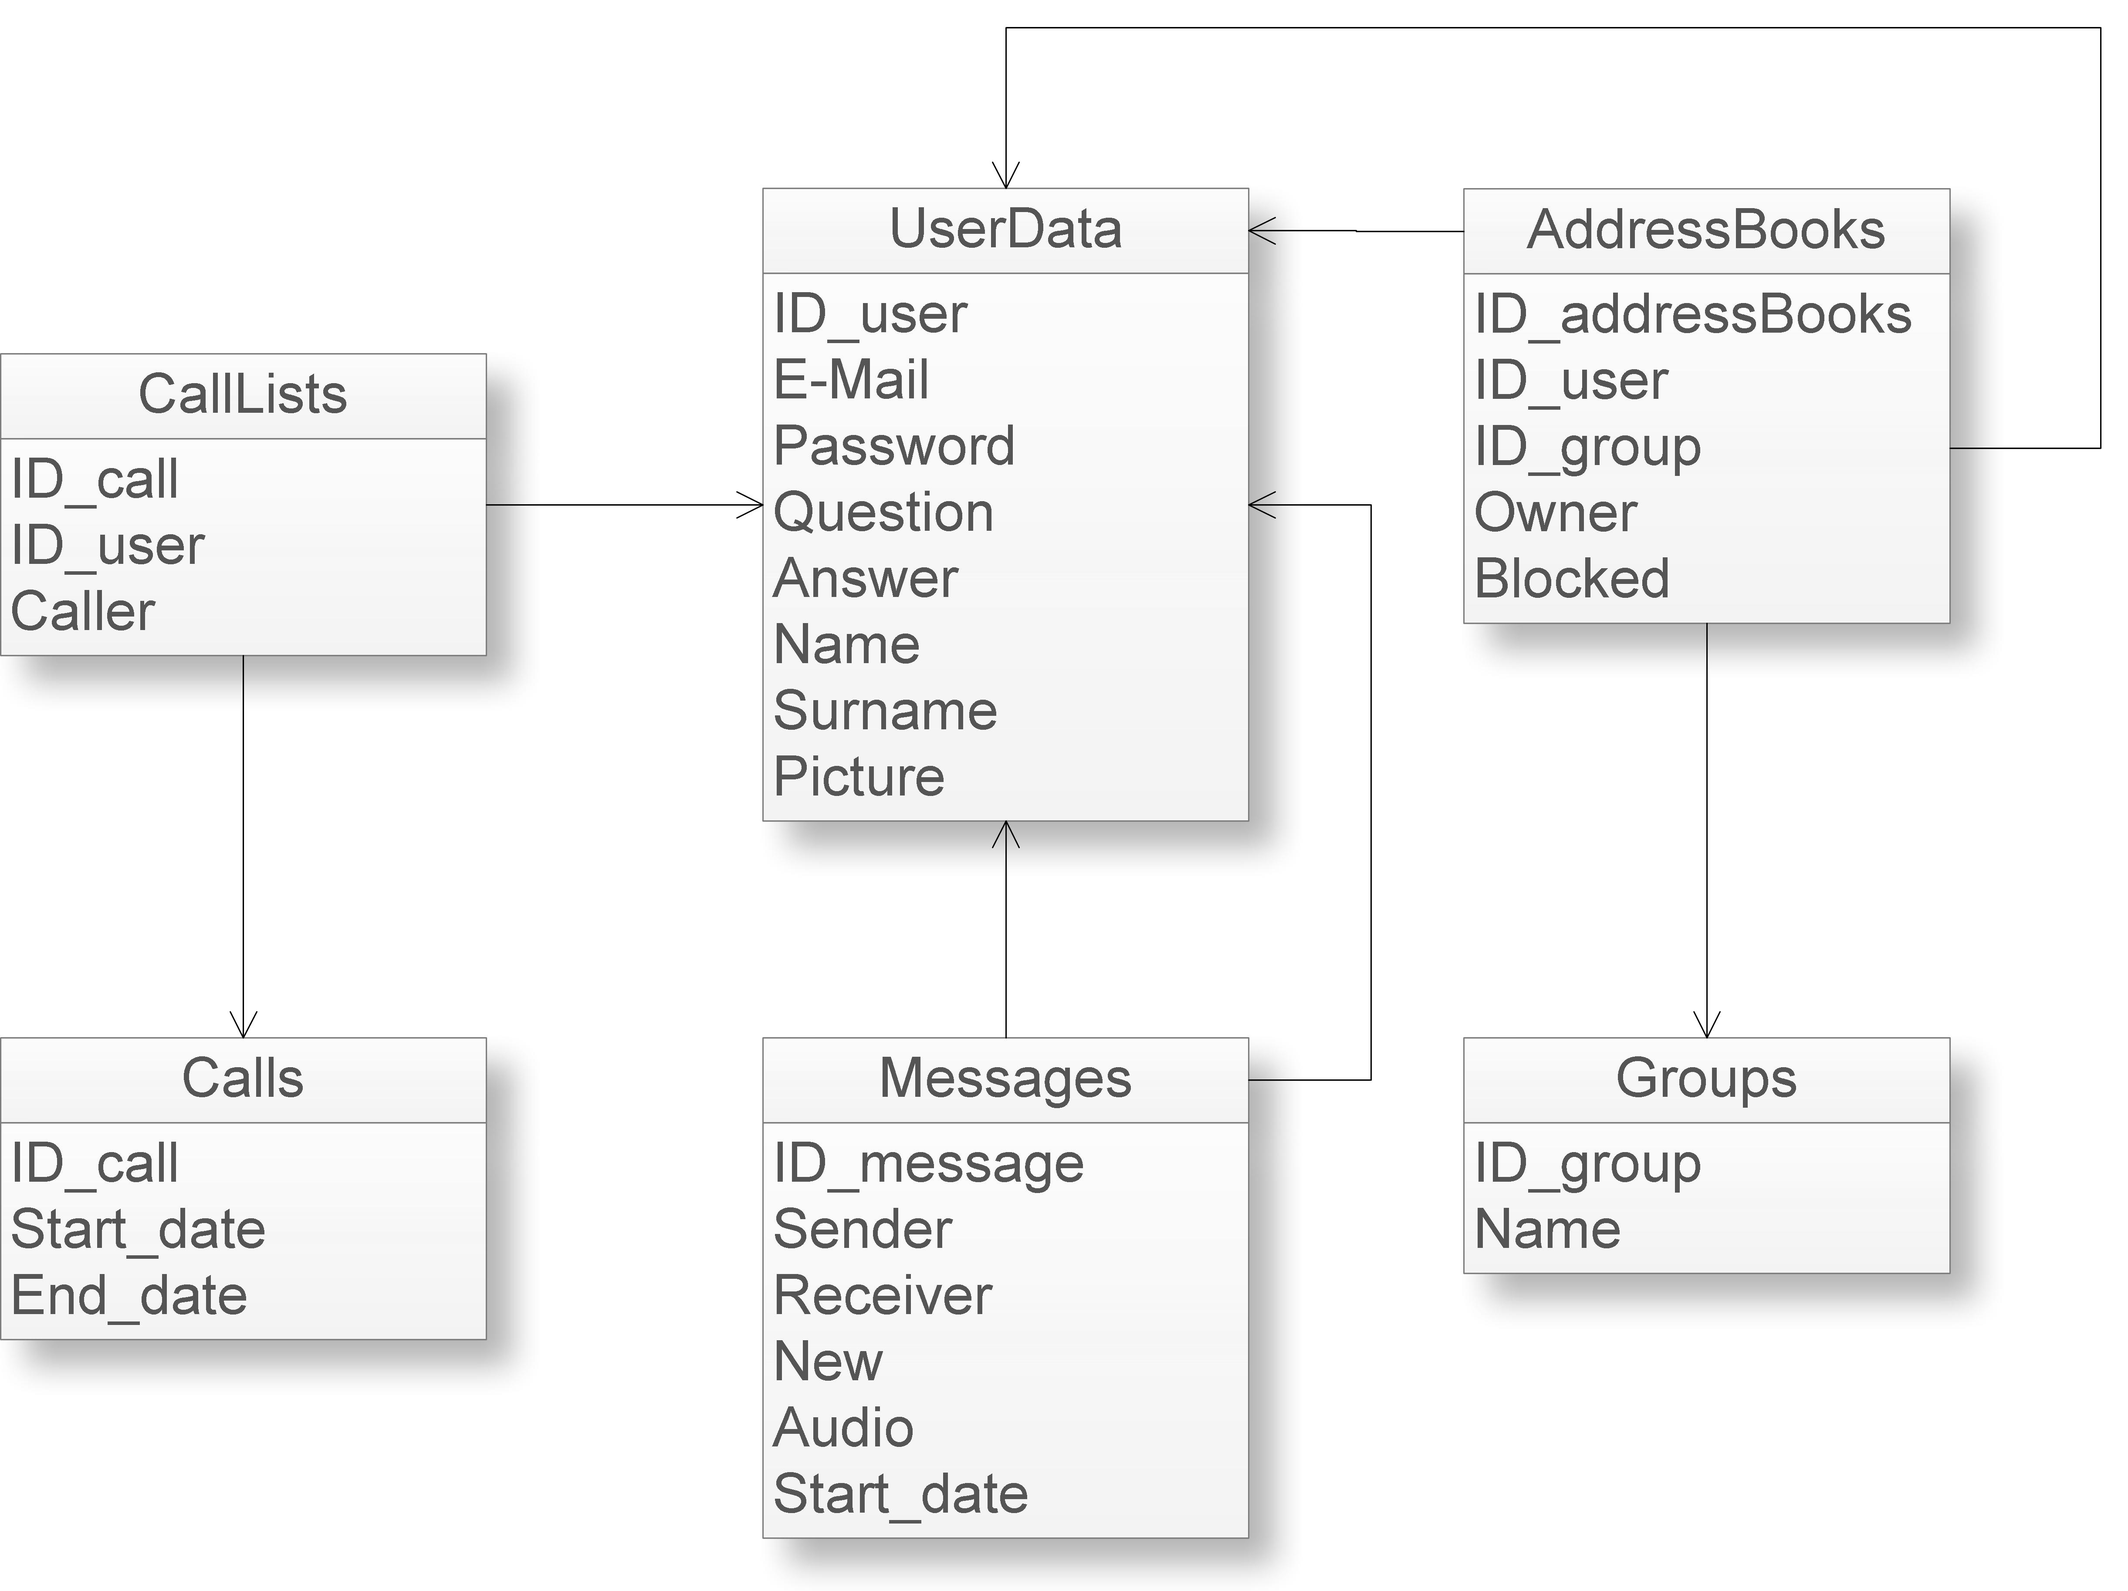
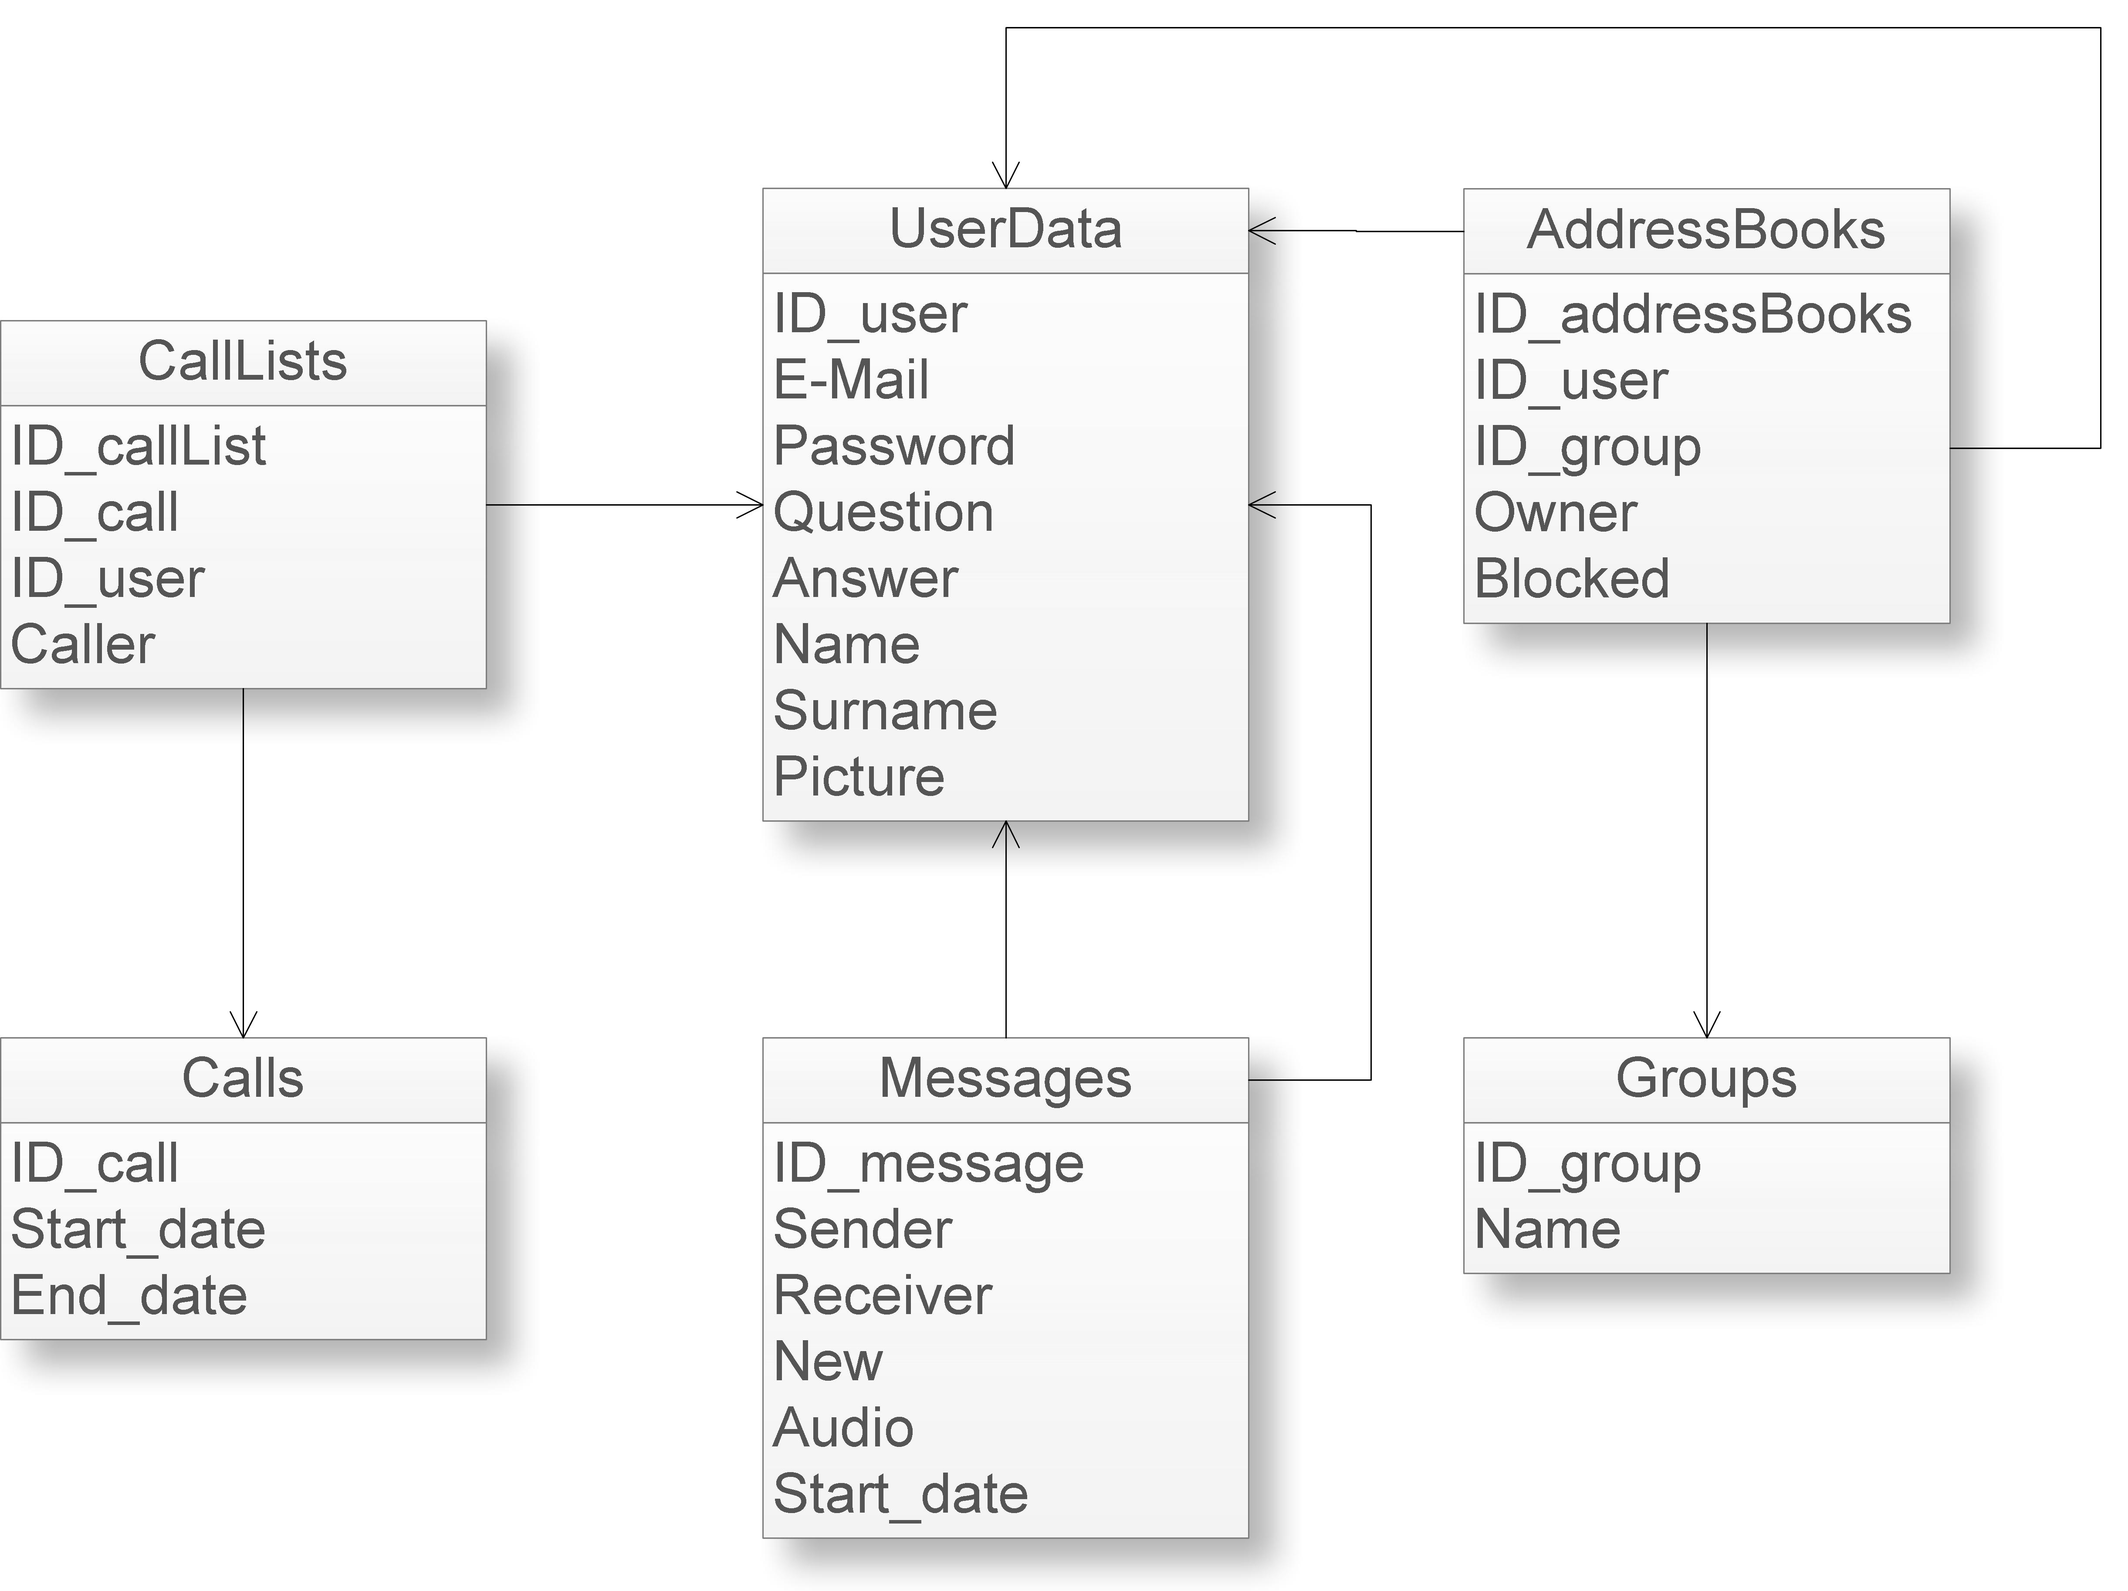
Correzione progettazione logica DB

Changed region(s): [[0.0, 0.2184, 0.2489, 0.468], [0.2178, 0.2184, 0.2489, 0.2496]]

diff --git a/Documents/specifica_tecnica/specifica_tecnica.tex b/Documents/specifica_tecnica/specifica_tecnica.tex
@@ -408,13 +408,13 @@ Con la progettazione logica intendiamo costruire la struttura definitiva del dat
 \subsubsection{Rappresentazione delle associazioni}
 
 \begin{description}
-	\item{\scshape\bfseries UserData - Calls}: tale associazione si è risolta attraverso l'introduzione dell'entità CallLists. Tale entità contiene l'attributo User come chiave esterna verso l'entità UserData e l'attributo Call\_ID come chiave esterna verso l'entità Calls. È dotata inoltre dell'attributo Caller che identifica colui che ha per primo avviato la chiamata; per ogni gruppo di ennuple aventi lo stesso Call\_ID si avrà soltanto una ennupla contrassegnata con il campo Caller a vero.
+	\item{\scshape\bfseries UserData - Calls}: tale associazione si è risolta attraverso l'introduzione dell'entità CallLists. Tale entità contiene l'attributo ID\_user come chiave esterna verso l'entità UserData e l'attributo ID\_call come chiave esterna verso l'entità Calls. È dotata inoltre dell'attributo ``Caller'' che identifica colui che ha per primo avviato la chiamata; per ogni gruppo di ennuple aventi lo stesso ID\_call si avrà soltanto una ennupla contrassegnata con il campo Caller a vero.
 	
-	\item{\scshape\bfseries UserData - AddressBook}: tali associazioni si sono risolte inserendo nell'entità AddressBook due chiavi esterne verso UserData. Per questo motivo nella progettazione concettuale era stato scelto come tipo di dato 'UserData'.
+	\item{\scshape\bfseries UserData - AddressBooks}: tali associazioni si sono risolte inserendo nell'entità AddressBook due chiavi esterne verso UserData.
 	
-	\item{\scshape\bfseries AddressBook - Groups}: tale associazione si è risolta inserendo una chiave esterna verso Groups all'interno dell'entità AddressBook.
+	\item{\scshape\bfseries AddressBooks - Groups}: tale associazione si è risolta inserendo una chiave esterna verso Groups all'interno dell'entità AddressBooks.
 	
-	\item{\scshape\bfseries UserData - Messages}: tale associazione si è risolta inserendo due chiavi esterne verso UserData, all'interno dell'entità Messages. Come per l'associazione UserData - AddressBook si era scelto come tipo di dato 'UserData' nella progettazione concettuale.
+	\item{\scshape\bfseries UserData - Messages}: tale associazione si è risolta inserendo due chiavi esterne verso UserData, all'interno dell'entità Messages. 
 \end{description}
 
 \subsubsection{Chiavi primarie sintetiche}
@@ -422,10 +422,11 @@ I progettisti hanno optato per la definizione di chiavi primarie sintetiche, ovv
 
 Tale scelta è dettata dall'utilizzo del framework Hibernate che non permette la modifica del valore della chiavi primarie associate ad una istanza di un oggetto di \inglese{business}. Le chiavi saranno quindi composte da un campo a valore intero, da intendersi come un contatore che identifica univocamente i record.
 
-La chiave primaria in Calls (e chiave esterna in CallLists) è di tipo \texttt{BIGINT} senza segno, il team è consapevole che questo impone un limite di $1,8 \times10^{19}$ al numero di chiamate che possono essere memorizzate contemporaneamente. Una soluzione da adottarsi in futuro per evitare la perdita di dati potrebbe consistere nello spostare da database a disco parte di queste informazioni.
+La chiave sintetiche adottate sono del tipo \texttt{BIGINT} senza segno, il team è consapevole che questo impone un limite di $1,8 \times10^{19}$ al numero di voci che possono essere memorizzate contemporaneamente in ogni entità. Una soluzione da adottarsi in futuro per evitare la perdita di dati potrebbe consistere nello spostare da database a disco parte di queste informazioni.
 L'introduzione di questo tipo di chiave è dovuta anche ad una semplice gestione, tramite Hibernate, di tale oggetto.
 
 Nel caso particolare dei messaggi, inoltre, il campo ID\_message, oltre a rappresentare un identificatore univoco, coincide anche con il nome del file sul server in cui è memorizzato il messaggio stesso, all'interno di una \inglese{directory} predefinita e nota ai componenti del sistema.
+\newpage
 
 \subsubsection{Lista delle classi}
 
@@ -441,7 +442,7 @@ Nome attributo & Tipo & Opzionale & Vincoli\\
 \midrule
 ID\_user & Bigint unsigned & NO & PrimaryKey\\
 E-Mail & Varchar(100) & NO & Unique\\
-Password & Varchar(100) & NO &\\
+Password & Char(41) & NO &\\
 Question & Varchar(100) & NO &\\
 Answer & Varchar(100) & NO &\\
 Name & Varchar(100) & SÌ &\\
@@ -460,7 +461,7 @@ Calls
 Nome attributo & Tipo & Opzionale & Vincoli\\
 \midrule
 ID\_call & Bigint unsigned & NO & PrimaryKey\\
-Start\_date & Datetime & NO & \\
+Start\_date & Datetime & NO & default(current\_timestamp)\\
 End\_date & Datetime & SÌ &\\
 \bottomrule
 \end{tabular}
@@ -474,8 +475,9 @@ CallLists
 \toprule
 Nome attributo & Tipo & Opzionale & Vincoli\\
 \midrule
-ID\_call & Bigint unsigned & NO & PrimaryKey e ForeignKey verso Calls\\
-ID\_user & Bigint unsigned & NO & PrimaryKey e ForeignKey verso UserData \\
+ID\_callList & Bigint unsigned & NO PrimaryKey\\
+ID\_call & Bigint unsigned & NO & ForeignKey verso Calls\\
+ID\_user & Bigint unsigned & NO & ForeignKey verso UserData \\
 Caller & Boolean & NO &\\
 \bottomrule
 \end{tabular}
@@ -566,33 +568,32 @@ Infine, si fa notare che i nomi di tutte le classi riportate nella presente sezi
 \item{\scshape\bfseries Descrizione:}\\
 È il componente che si occupa di rappresentare la struttura del database relazionale su cui poggia l'applicativo. Tramite questo componente, il sistema potrà quindi effettuare operazione di lettura e scrittura di entità all'interno del database.
 
-Nucleo logico di tale componente è la classe \texttt{org.softwaresynthesis.mytalk.server.dao}, il cui compito è creare una \inglese{factory} per le sessioni verso il database. Si voglia osservare che tali sessioni si basano sul file di configurazione di Hibernate, tra le cui informazione compare anche la tipologia di di DBMS usata.
-
-Le altre classi che fanno parte  di questo componente si dividono in due categorie:
+Le classi che fanno parte  di questo componente possono essere suddivise in:
 \begin{itemize}
-	\item le classi \inglese{data access object} (DAO). Ossia quelle classi aventi il compito di inoltrare richieste per la modifica e la lettura dei dati (Create Read Update Delete) nelle corrispettive entità del database. Tali classi sono:
-	\begin{itemize}
-		\item[-] \texttt{dao.CallDAO}
-		\item[-] \texttt{dao.GroupDAO}
-		\item[-] \texttt{dao.MessageDAO}
-		\item[-] \texttt{dao.UserDataDAO}
-		\item[-] \texttt{dao.AddressBookDAO}
-	\end{itemize}
-	
-	\item le classi che mappano le entità rappresentate nel database e sono dotate di variabili di istanza che corrispondono ai campi dei \inglese{record}. Le operazioni disponibili su questo genere di oggetti comprendono i metodi get/set associati ai campi delle tabelle del database e sono rese disponibili dalle interfacce (una per ogni entità) implementate dalle classi (per chiarezza si informa che tali classi corrispondono a quelle che nella logica di programmazione in Hibernate prendono il nome di \inglese{Trasfer Object}, TO\@).
-	\begin{itemize}
-		\item[-] \texttt{call.ICall}
-	  \item[-] \texttt{call.Call}
-	  \item[-] \texttt{abook.IGroup}
-	  \item[-] \texttt{abook.Group}
-	  \item[-] \texttt{message.IMessage}
-	  \item[-] \texttt{message.Message}
-	  \item[-] \texttt{abook.IUserData}
-	  \item[-] \texttt{abook.UserData}
-	\end{itemize}
+  \item una classe di utilità per la creazione delle sessioni di connessione al DBMS su cui saranno realizzate le transazioni;
+  \item le classi \inglese{data access object} (DAO) concrete per il DBMS prescelto (MySQL) e le relative interfacce;
+  \item le classi \inglese{factory} (concrete e astratte) utilizzate per ottenere le istanze delle classi DAO necessarie a supportare la persistenza dei dati del database.
 \end{itemize}
 
-Si voglia osservare che le classi rappresentati i TO\@ vengono ad essere collocate in package diversi da \texttt{.server.dao}. Questo perchè il team ha ritenuto sensato inserirle in contesti maggiormente specializzati sul gestire quella specifica sezione del database. Ecco quindi (per esempio) che la classe rappresentante i messaggi in segreteria verrà ad essere collocata in \texttt{server.message.Message}.
+Inoltre, sono utilizzate le classi \inglese{transfer object} (TO) esterne e le relative interfacce che modellano le entità di \inglese{business}, in particolare:
+\begin{itemize}[noitemsep,nolistsep]
+  \item[-] \texttt{call.ICall}
+	\item[-] \texttt{call.Call}
+	\item[-] \texttt{abook.IGroup}
+	\item[-] \texttt{abook.Group}
+	\item[-] \texttt{message.IMessage}
+	\item[-] \texttt{message.Message}
+	\item[-] \texttt{abook.IUserData}
+	\item[-] \texttt{abook.UserData}
+\end{itemize}
+
+In linea generale le classi TO mappano le entità rappresentate nel database e sono dotate di variabili di istanza che corrispondono ai campi dei \inglese{record}. Le operazioni disponibili su questo genere di oggetti comprendono i metodi get/set associati ai campi delle tabelle del database e sono rese disponibili dalle interfacce (una per ogni entità) implementate dalle classi TO\@.
+
+Ad ognuna delle entità è associata inoltre un'interfaccia DAO il cui contratto stabilisce la responsabilità di gestire la transizione di stato degli oggetti TO da transienti a persistenti, l'aggiornamento delle informazioni sul database, la ricerca di un elemento e la rimozione di un oggetto dallo stato persistente, realizzando le operazioni di \inglese{insert}, \inglese{update}, \inglese{find}, \inglese{select} e \inglese{delete} corrispondenti.
+
+Poiché le implementazioni delle interfacce DAO contengono istruzioni dipendenti dal DBMS utilizzato, è stato realizzato un set di classi specifiche per MySQL che si appoggiano al \inglese{framework} Hibernate per la gestione della persistenza dei dati. Inoltre, è stata introdotta una classe \inglese{factory} per MySQL (\texttt{dao.MySQLDAOFactory})responsabile della creazione degli oggetti DAO specifici per questo DBMS\@.
+
+Allo scopo di rendere l'architettura facilmente estendibile a futuri ampliamenti o cambiamenti di DBMS, è stata introdotta un'interfaccia della \inglese{factory} in cui i tipi di ritorno dei metodi sono le interfacce DAO\@. Una diversa classe \inglese{factory} che la implementi potrà pertanto restituire istanze di sottotipi delle interfacce DAO specifiche per gestori di database distinti.
 
 \item{\scshape\bfseries Diagramma delle classi:}
 \begin{figure}[H]
@@ -603,11 +604,16 @@ Si voglia osservare che le classi rappresentati i TO\@ vengono ad essere colloca
 
 	\item{\scshape\bfseries Classi utilizzate:}
 	\begin{itemize}[nolistsep, noitemsep]
-	  \item[-] \texttt{dao.CallDAO}
-	  \item[-] \texttt{dao.GroupDAO}
-	  \item[-] \texttt{dao.MessageDAO}
-	  \item[-] \texttt{dao.UserDataDAO}
-	  \item[-] \texttt{dao.AddressBookDAO}
+	  \item[-] \texttt{dao.IDAOFactory}
+	  \item[-] \texttt{dao.MySQLDAOFactory}
+	  \item[-] \texttt{dao.ICallDAO}
+	  \item[-] \texttt{dao.MySQLCallDAO}
+	  \item[-] \texttt{dao.IGroupDAO}
+	  \item[-] \texttt{dao.MySQLGroupDAO}
+	  \item[-] \texttt{dao.IMessageDAO}
+	  \item[-] \texttt{dao.MySQLMessageDAO}
+	  \item[-] \texttt{dao.IUserDataDAO}
+	  \item[-] \texttt{dao.MySQLUserDataDAO}
 	  \item[-] \texttt{dao.HibernateUtil}
 	  \item[-] \texttt{call.ICall}
 	  \item[-] \texttt{call.Call}
@@ -653,12 +659,14 @@ L'istanza di \texttt{connection.CommunicationHandler} avrà quindi il compito di
 \subsubsection{CS03 -- Gestione rubrica}
 \begin{description}
 	\item{\scshape\bfseries Descrizione:}\\
-Ad ogni utente del sistema, che corrisponde a un'istanza di \texttt{abook.UserData} è associata una rubrica personale. Tale rubrica è rappresentata da una lista d'istanze del tipo \texttt{abook.IAddressBook}, per la quale il team fornisce un implementazione nominata \texttt{abook.AddressBook}. Per chiarezza possiamo dire che un istanza della classe TO \texttt{abook.AddressBook}, rappresenta una riga della rubrica di un utente.
+%TODO da rivedere per #131
+Ad ogni utente del sistema, che corrisponde a un'istanza di \texttt{abook.UserData} è associata una rubrica personale, rappresentata dall'interfaccia \texttt{abook.IAddressBook} e dalla relativa implementazione \texttt{abook.AddressBook}.
 
-Come si evince osservando il diagramma, la struttura della componente rispecchia la logica di funzionamento del database. Ecco quindi che ogni istanza di un oggetto di tipo \texttt{abook.IAddressBook} ``apparterrà'' ad un solo \texttt{abook.IUserData}, ed in essa è registrata un istanza di \texttt{abook.UserData} che rappresenta il contatto facente parte della rubrica.
+I contatti in rubrica corrispondono agli utenti del sistema che il possessore ha aggiunto alla stessa. Una rubrica può contenere zero o più utenti, come si evince dalla relazione di composizione fra \texttt{abook.AddressBook} e \texttt{abook.IUserData} riportata del diagramma in figura~\ref{fig:gestionerubrica}.
 
 Gli utenti, inoltre, possono essere opzionalmente organizzati in gruppi: un contatto in rubrica può, in un dato momento, appartenere a uno o più gruppi oppure non appartenere a nessuno.
 
+D'altro canto, la rubrica può contenere uno o più gruppi, laddove il limite inferiore è fissato dalla presenza di default di un gruppo \inglese{blacklist} in ogni rubrica. Questo spiega la relazione di composizione fra \texttt{abook.AddressBook} e \texttt{abook.IGroup}.
 
 Infine, il passaggio dei dati corrispondenti ai contatti della rubrica al \inglese{presenter} è gestito restituendo una versione serializzata degli oggetti compatibile con il dominio applicativo dei client che rappresenta inoltre una sorta di \inglese{proxy} di protezione, corrispondente alla classe \texttt{org.softwaresynthesis.mytalk.clientpresenter.kernel.JSUserData}. Un trattamento analogo è stato riservato ai gruppi di utenti che fanno parte di una rubrica personale.
 
